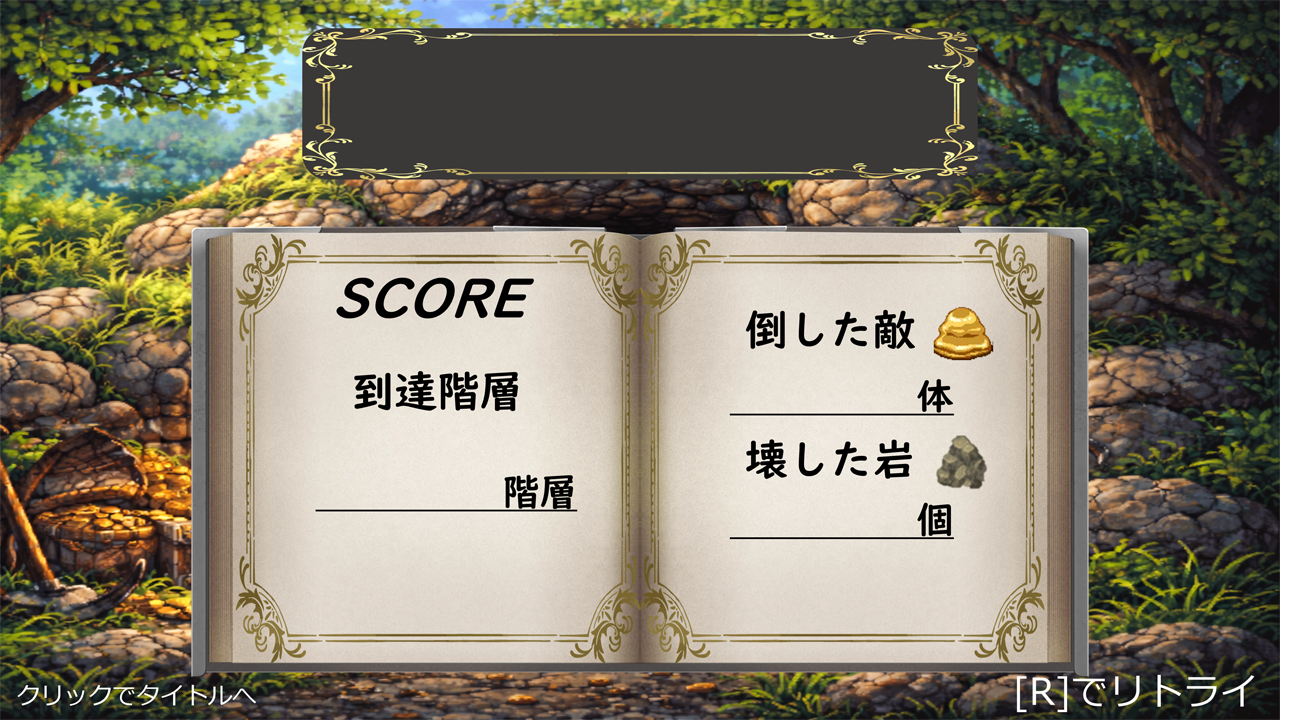
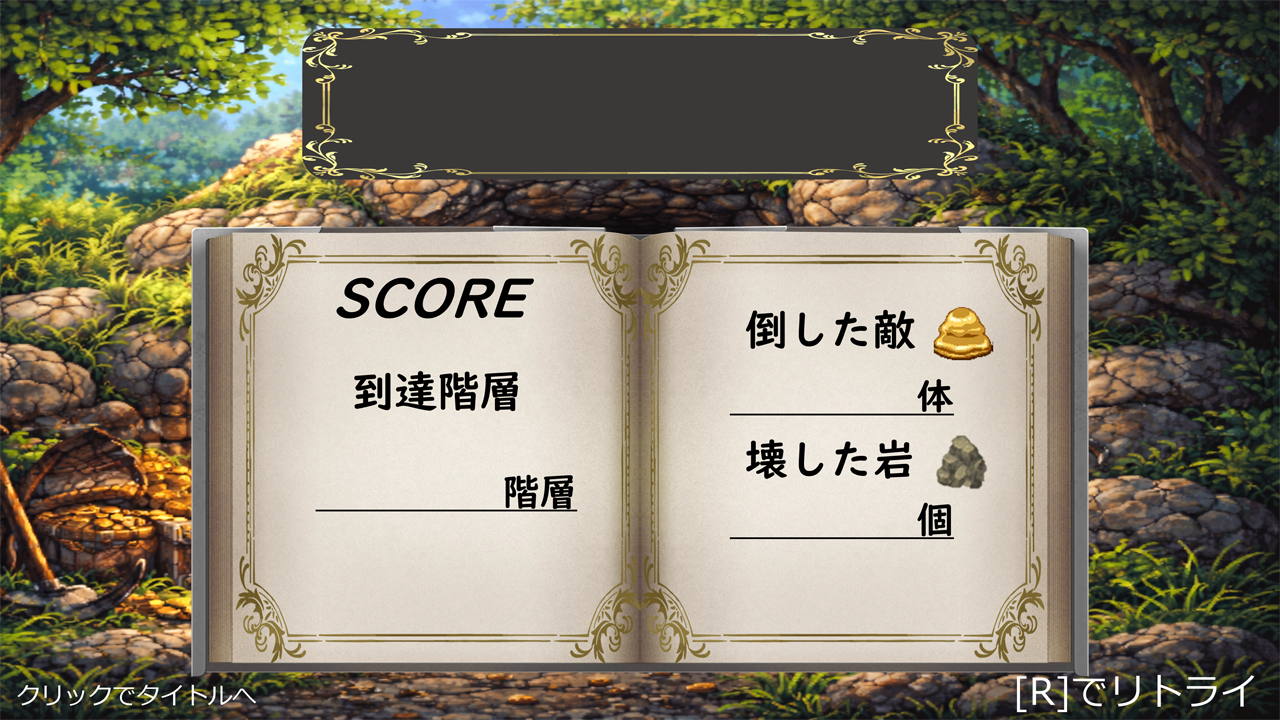
ハイスコア余白改善

diff --git a/DUYD/Source/Screen.h b/DUYD/Source/Screen.h
@@ -8,7 +8,7 @@ namespace Screen
 {
 	static const int WIDTH = 1280;
 	static const int HEIGHT = 720;
-	static const BOOL WINDOW_MODE = TRUE;
+	static const BOOL WINDOW_MODE = FALSE;
 	static const char* WINDOW_NAME = "project";
 	static const float WINDOW_EXTEND = 1.0f;
 	static const float FRAME_RATE = 60.0f;
